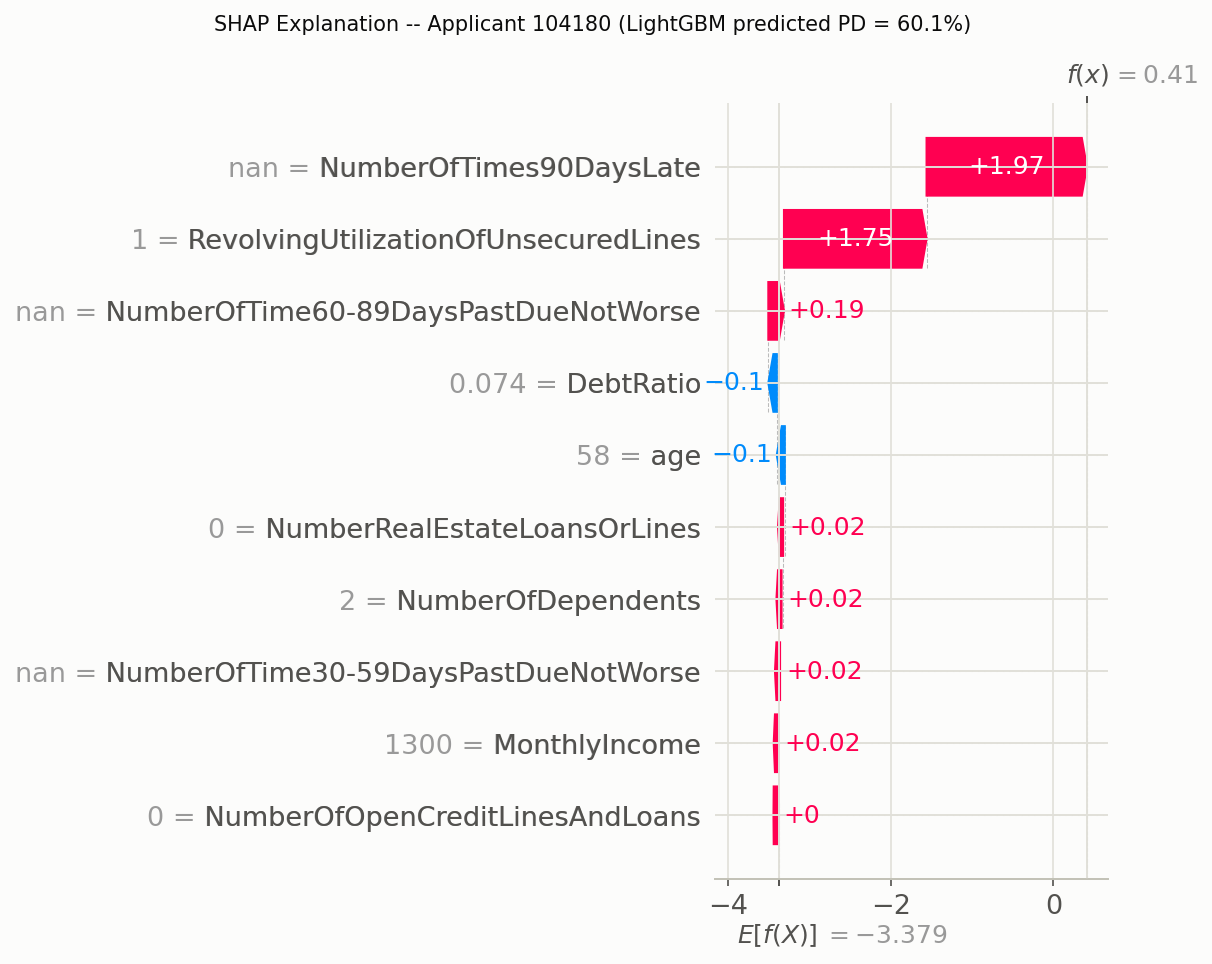
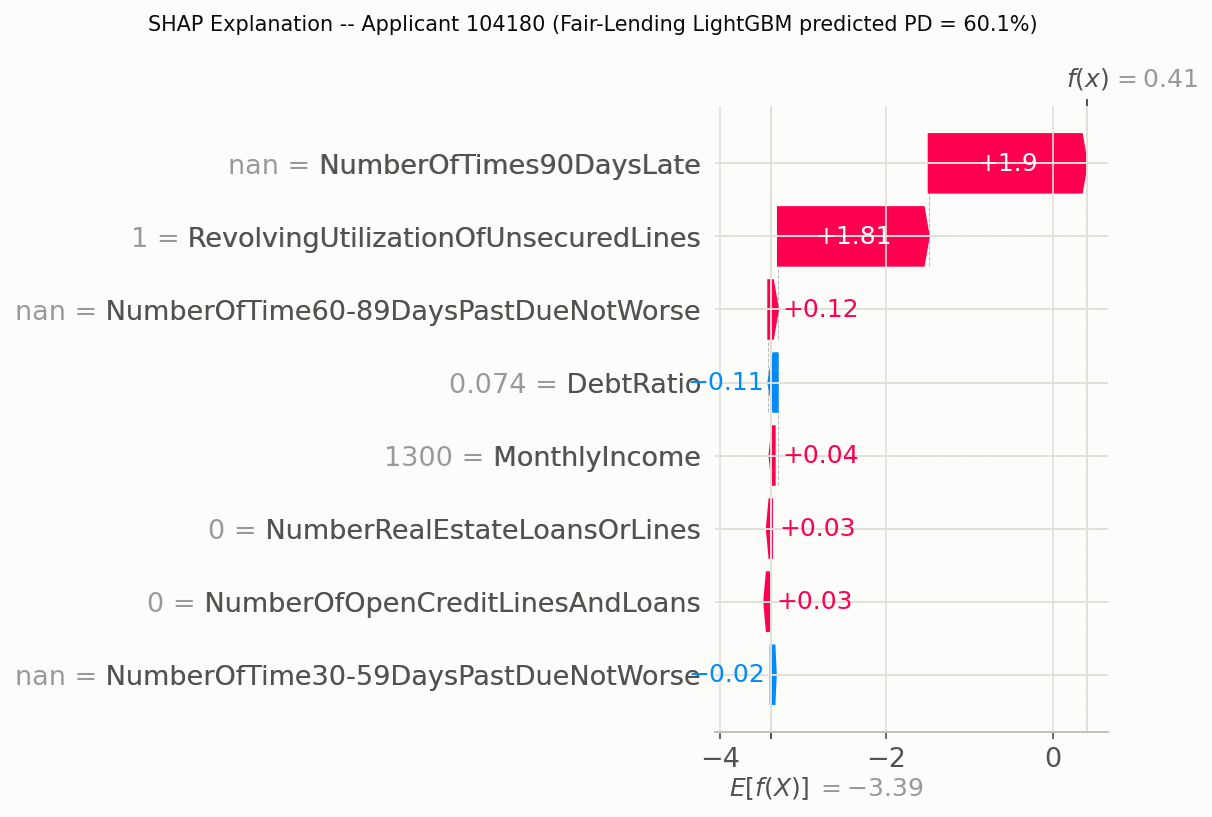
Step 7: make fair-lending LightGBM the official challenger, regenerate SHAP plots

Changed region(s): [[0.0, 0.0612, 1.0, 0.9792], [0.1221, 0.0, 0.8548, 0.0612], [0.0305, 0.8262, 0.0611, 0.8568]]

diff --git a/challenger_model.py b/challenger_model.py
@@ -73,33 +73,33 @@ if __name__ == "__main__":
     auc_champ, gini_champ = champion["auc_b"], champion["gini_b"]
     ks_champ = ks_statistic(test[TARGET].values, pred_champ)
 
-    print("\n=== CHAMPION vs CHALLENGER vs FAIR-LENDING CHALLENGER (test set) ===")
+    print("\n=== CHAMPION vs OFFICIAL CHALLENGER vs ALL-FEATURES REFERENCE (test set) ===")
     comparison = pd.DataFrame({
         "model": [
-            "Scorecard (Model B, fair lending, WoE logistic regression)",
-            "LightGBM (all raw features, incl. age & dependents)",
-            "LightGBM (fair lending, excl. age & dependents)",
+            "Scorecard (Model B, fair lending, WoE logistic regression) -- CHAMPION",
+            "LightGBM (fair lending, excl. age & dependents) -- OFFICIAL CHALLENGER",
+            "LightGBM (all raw features, incl. age & dependents) -- reference only",
         ],
-        "AUC": [auc_champ, auc_lgb, auc_lgb_fair],
-        "Gini": [gini_champ, gini_lgb, gini_lgb_fair],
-        "KS": [ks_champ, ks_lgb, ks_lgb_fair],
+        "AUC": [auc_champ, auc_lgb_fair, auc_lgb],
+        "Gini": [gini_champ, gini_lgb_fair, gini_lgb],
+        "KS": [ks_champ, ks_lgb_fair, ks_lgb],
     })
     print(comparison.to_string(index=False))
-    print(f"\nLightGBM (all features) Gini advantage over scorecard: {gini_lgb - gini_champ:+.4f} ({(gini_lgb - gini_champ) / gini_champ:+.1%} relative)")
-    print(f"LightGBM (fair lending) Gini advantage over scorecard: {gini_lgb_fair - gini_champ:+.4f} ({(gini_lgb_fair - gini_champ) / gini_champ:+.1%} relative)")
+    print(f"\nOfficial challenger (fair-lending LightGBM) Gini advantage over scorecard: {gini_lgb_fair - gini_champ:+.4f} ({(gini_lgb_fair - gini_champ) / gini_champ:+.1%} relative)")
+    print(f"All-features LightGBM Gini advantage over scorecard: {gini_lgb - gini_champ:+.4f} ({(gini_lgb - gini_champ) / gini_champ:+.1%} relative) -- not usable, uses protected attributes")
     print(f"LightGBM Gini COST of removing age & NumberOfDependents: {gini_lgb - gini_lgb_fair:.4f} ({(gini_lgb - gini_lgb_fair) / gini_lgb:.1%} relative drop)")
 
-    # ================= SHAP =================
-    print("\n=== Computing SHAP values (TreeExplainer) ===")
-    explainer = shap.TreeExplainer(model)
-    shap_values = explainer(X_test)
+    # ================= SHAP (official challenger = fair-lending LightGBM) =================
+    print("\n=== Computing SHAP values for the OFFICIAL CHALLENGER (fair-lending LightGBM) ===")
+    explainer = shap.TreeExplainer(model_fair)
+    shap_values = explainer(X_test_fair)
 
     plt.figure(figsize=(8, 6))
-    shap.summary_plot(shap_values, X_test, show=False, plot_size=None)
+    shap.summary_plot(shap_values, X_test_fair, show=False, plot_size=None)
     fig = plt.gcf()
     fig.set_size_inches(8, 6)
     ax = fig.axes[0]
-    ax.set_title("SHAP Summary -- What Drives LightGBM's Predictions (test set)")
+    ax.set_title("SHAP Summary -- Fair-Lending LightGBM Challenger (test set)")
     fig.tight_layout()
     fig.savefig(f"{FIG_DIR}/shap_summary.png", dpi=150, bbox_inches="tight")
     plt.close(fig)
@@ -107,14 +107,14 @@ if __name__ == "__main__":
 
     # Individual applicant -- same low-score applicant highlighted in step 5
     applicant_id = 104180
-    if applicant_id not in X_test.index:
-        applicant_id = y_test.index[np.argmax(pred_lgb)]  # fall back to highest-risk applicant
-    row_pos = X_test.index.get_loc(applicant_id)
+    if applicant_id not in X_test_fair.index:
+        applicant_id = y_test.index[np.argmax(pred_lgb_fair)]  # fall back to highest-risk applicant
+    row_pos = X_test_fair.index.get_loc(applicant_id)
 
     plt.figure()
     shap.plots.waterfall(shap_values[row_pos], show=False)
     fig = plt.gcf()
-    fig.suptitle(f"SHAP Explanation -- Applicant {applicant_id} (LightGBM predicted PD = {pred_lgb[row_pos]:.1%})", fontsize=10)
+    fig.suptitle(f"SHAP Explanation -- Applicant {applicant_id} (Fair-Lending LightGBM predicted PD = {pred_lgb_fair[row_pos]:.1%})", fontsize=10)
     fig.tight_layout()
     fig.savefig(f"{FIG_DIR}/shap_individual.png", dpi=150, bbox_inches="tight")
     plt.close(fig)
